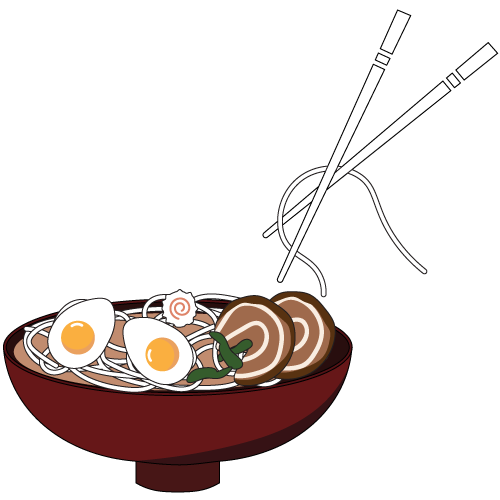
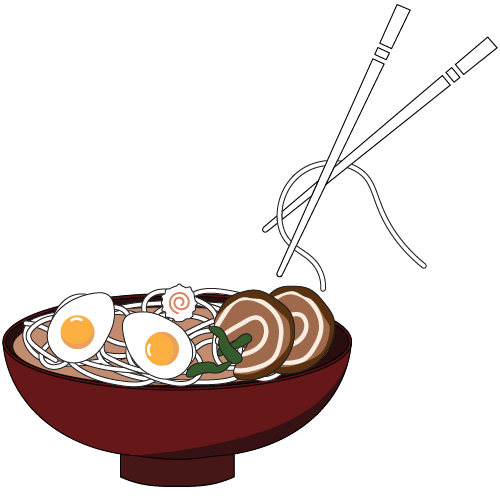
Ändrat bild, lagt till funktion för att skriva ut data, ändrat typsnitt + små css justeringar

Changed region(s): [[0.0, 0.0, 1.0, 0.99], [0.03, 0.78, 0.12, 0.87]]

diff --git a/src/js/search.js b/src/js/search.js
@@ -3,28 +3,53 @@
 let searchBtn = document.getElementById("search-btn");
 
 //Lägger till eventlistener vid klick på sökknapp
-searchBtn.addEventListener("click", searchCountry);
+searchBtn.addEventListener("click", displayCountry);
 
-
+//Hämtar api för restcountries
 async function searchCountry() {
     let searchInput = document.getElementById("recipe-search").value;
 
 
     //Hämtar specifik land api från Restcountries
-    const url = "https://restcountries.com/v3.1/name/" + searchInput;
+    const url = "https://restcountries.com/v3.1/name/" + searchInput + "?fullText=true";
 
     //Kör fetch på url som returnerar en promise
     try {
         let response = await fetch(url);
+
         let data = await response.json();
         console.log(data);
+        
+        return data[0];//Hämtar första index
+
 
     } catch (error) {
         console.error(error); //Vid fel körs error meddelande i konsollen
+        return null;
     }
 }
 
+//Funktion som skriver ut datan i form av flagga
+async function displayCountry() {
+    document.getElementById("flag").innerHTML = "";
 
-async function displayFlags() {
-    
+    let country = await searchCountry();
+    document.querySelector(".flag-wrap").style.display = "block"; //Gör css stil för flag-wrap aktiv
+
+    if (country) {
+        document.getElementById("flag").innerHTML =
+            `<img src="${country.flags.svg}" alt="${country.flags.alt}">`; //Skriver ut flaga
+
+        document.querySelector(".country-name").innerHTML = `<p>"${countryName}"</p>`//Skriver ut land
+    }
+    else {
+        return document.getElementById("flag").innerHTML = "<p>Country not found</p>";
+    }
+
 }
+
+
+
+
+
+

diff --git a/src/index.html b/src/index.html
@@ -9,7 +9,7 @@
     <link rel="icon" type="image/x-icon" href="img/favicon.png">
     <link rel="preconnect" href="https://fonts.googleapis.com">
     <link rel="preconnect" href="https://fonts.gstatic.com" crossorigin>
-    <link href="https://fonts.googleapis.com/css2?family=Work+Sans:ital,wght@0,100..900;1,100..900&display=swap" rel="stylesheet">
+    <link href="https://fonts.googleapis.com/css2?family=Montserrat:ital,wght@0,100..900;1,100..900&display=swap" rel="stylesheet">
     <script src="js/search.js" type="module"></script>
     <script src="https://kit.fontawesome.com/5f4c540c40.js" crossorigin="anonymous" type="module"></script>
 </head>
@@ -35,17 +35,20 @@
             </div>
         </div>
 
+        <!--Sökfält-->
         <div class="search-wrap">
             <div class="search-container">
-                <label for="recipe-search">Search for recipe</label>
+                <label for="recipe-search">Which country <br>
+                    would you like to cook from today?</label>
                 <input type="search" id="recipe-search" name="recipe-search" placeholder="Sweden">
                 <button id="search-btn">Search<i class="fa-solid fa-magnifying-glass"></i></button>
             </div>
         </div>
 
-        <div id="search-list"></div>
-
-        <div class="flag"></div>
+        <div class="flag-wrap">
+            <div id="flag"></div>
+            <span class="country-name"></span>
+        </div>
 
 
     </main>

diff --git a/src/css/_content.scss b/src/css/_content.scss
@@ -40,11 +40,11 @@ main {
 .search-wrap {
     width: 100%;
     background-color: base.$grey-bg;
-    height: 20rem;
     display: flex;
     align-items: center;
     justify-content: center;
     margin-top: 3rem;
+    padding: base.$base-padding;
 
     .search-container {
         width: 100%;
@@ -76,6 +76,23 @@ main {
         color: base.$text-light;
         display: block;
         margin: 1rem auto;
+    }
+}
 
+.flag-wrap {
+    display: none;
+    background-color: base.$yellow-bg;
+
+    #flag {
+        max-width: 120rem;
+        width: 100%;
+        margin: 0 auto;
+        padding: base.$base-padding;
+    }
+
+    img {
+        display: block;
+        max-width: 10rem;
+        width: 100%;
     }
 }

diff --git a/src/css/_component.scss b/src/css/_component.scss
@@ -1,3 +1,5 @@
+@use 'base';
+
 .circle {
     background-color: #FFB74F;
     height: 50rem;
@@ -8,4 +10,8 @@
 
 i {
     margin-left: 1rem;
+}
+
+button {
+    cursor: pointer;
 }

diff --git a/src/css/_grid.scss b/src/css/_grid.scss
@@ -1,5 +1,5 @@
 body {
-    font-family: "work-sans", sans-serif;
+    font-family: "Montserrat", sans-serif;
     background-color: #FFFAEC;
     display: grid;
     height: 100%;

diff --git a/src/css/_footer.scss b/src/css/_footer.scss
@@ -4,5 +4,4 @@ footer {
     @include grid.grid-footer;
     height: 10rem;
     background-color: black;
-    margin-top: 15rem;
 }

diff --git a/src/css/_typography.scss b/src/css/_typography.scss
@@ -15,7 +15,7 @@ p {
 }
 
 label {
-    font-size: 2.4rem;
+    font-size: 2.8rem;
     font-weight: bolder;
 }
 
